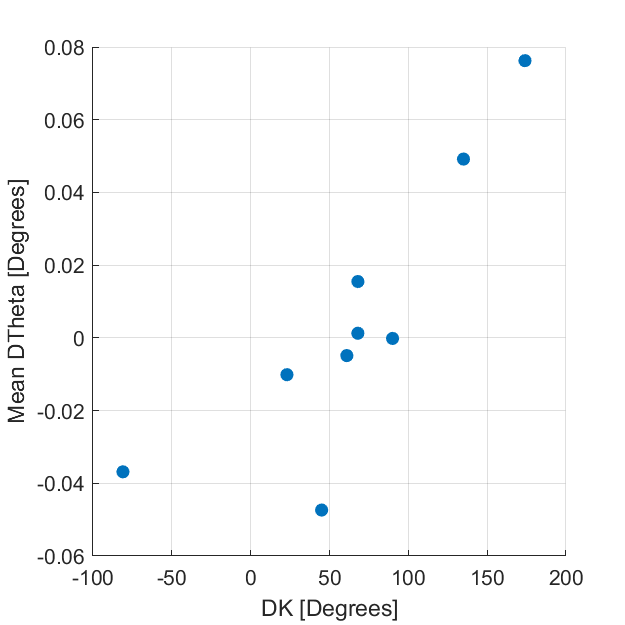
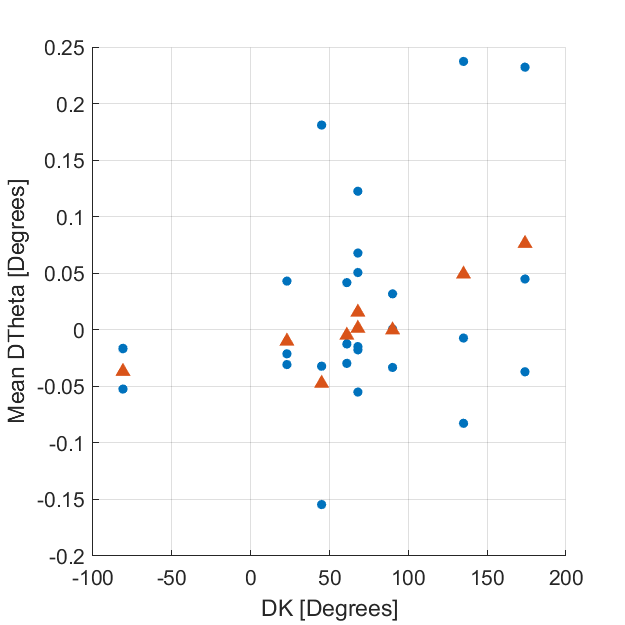
Updated the fp ort figure in rps pointing posting

diff --git a/2022mmdd_rps_pointing/scripts/rps_pointing_posting_plots_Jun2022.m b/2022mmdd_rps_pointing/scripts/rps_pointing_posting_plots_Jun2022.m
@@ -478,8 +478,8 @@ fignames = {'theta'};
 for parmind = 1
     clf; hold on;
     
-    
-    scatter(dks,fp_ort_per_dk,40,'filled')%,'Marker','^')
+    scatter(dksch,fp_ort_per_sch,20,'filled')%,'Marker','^')
+    scatter(dks,fp_ort_per_dk,40,'filled','Marker','^')
     
     grid on
     ylabel(sprintf('%s [Degrees]',figtitles{parmind}))
